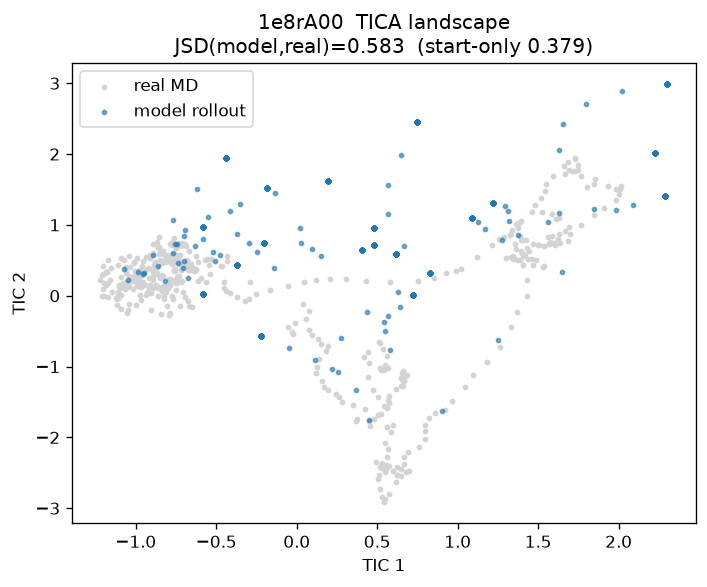
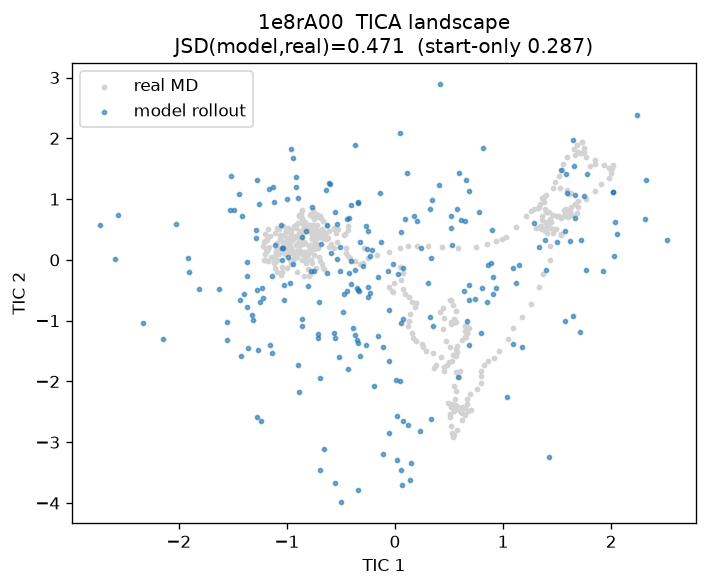
Improve distributional fidelity: symmetric canonicalization, multi-δ training, H=128 scale ladder
Builds on the initial pipeline with four improvement axes, keeping unroll=1 to test whether scale + native stochastic sampling alone close the TICA distributional gap:

- Canonicalize symmetric sidechain pairs (ASP/GLU/PHE/TYR/ARG) via rotation-invariant ordering
- Multi-scale δ training: delta_frames [1, 10, 100] in a single model
- Add faithful_scaled configs (H=128, vec 64, crop 192, canon_symmetric)
- TICA eval: --domain flag for fair cross-checkpoint comparison; updated figures
- rollout_eval: use smallest δ when checkpoint was trained multi-scale

Results: TICA JSD improves 0.56 → 0.35 (no-dynamics floor ~0.29); see README.md / REPORT.md.

diff --git a/src/deepjump/representation.py b/src/deepjump/representation.py
@@ -153,6 +153,29 @@ def kabsch_align_target(P_t, V_t, P_1, V_1):
     return P_t_c, V_t, P_1_aln, V_1_aln
 
 
+def canonicalize_symmetric(V: torch.Tensor, res_index) -> torch.Tensor:
+    """Fix the arbitrary labelling of symmetric sidechain atom pairs (ASP/GLU/PHE/TYR/ARG).
+
+    For each symmetric pair (a, b), order them by a rotation/translation-invariant key --
+    the distance from each atom to the residue's backbone N (an asymmetric reference) --
+    swapping slots so the smaller-key atom is always first. V is [N, 13, 3] offsets from CA.
+    """
+    from .atom_constants import N_SLOT, SYMMETRIC_SLOTS
+
+    V = V.clone()
+    ri = res_index.tolist() if hasattr(res_index, "tolist") else list(res_index)
+    for r, rtype in enumerate(ri):
+        for (a, b) in SYMMETRIC_SLOTS.get(int(rtype), ()):
+            n = V[r, N_SLOT]
+            ka = (V[r, a] - n).norm()
+            kb = (V[r, b] - n).norm()
+            if ka > kb:
+                tmp = V[r, a].clone()
+                V[r, a] = V[r, b]
+                V[r, b] = tmp
+    return V
+
+
 def kabsch_align_futures(P_t, V_t, futures):
     """Center X_t at origin and Kabsch-align each future (P, V) into X_t's frame.
 

diff --git a/src/deepjump/atom_constants.py b/src/deepjump/atom_constants.py
@@ -72,6 +72,28 @@ for _res, _order in HEAVY_ATOM_ORDER.items():
     assert len(_order) <= MAX_HEAVY, f"{_res} has {len(_order)} > {MAX_HEAVY} heavy atoms"
 
 
+# Symmetric sidechain atom pairs whose labelling is arbitrary (mirror-equivalent).
+# DeepJump/Ophiuchus handle these with an l=2 encoding; we instead canonicalise the pair
+# order by a rotation-invariant key (see representation.canonicalize_symmetric).
+_SYMMETRIC_PAIRS: dict[str, list[tuple[str, str]]] = {
+    "ASP": [("OD1", "OD2")],
+    "GLU": [("OE1", "OE2")],
+    "PHE": [("CD1", "CD2"), ("CE1", "CE2")],
+    "TYR": [("CD1", "CD2"), ("CE1", "CE2")],
+    "ARG": [("NH1", "NH2")],
+}
+
+# residue index -> list of (slotA, slotB) into the [13] heavy-atom axis
+SYMMETRIC_SLOTS: dict[int, list[tuple[int, int]]] = {}
+for _res, _pairs in _SYMMETRIC_PAIRS.items():
+    _idx = RESIDUE_TO_INDEX[_res]
+    _slotmap = HEAVY_ATOM_INDEX[_res]
+    SYMMETRIC_SLOTS[_idx] = [(_slotmap[a], _slotmap[b]) for a, b in _pairs]
+
+# N atom lives in slot 0 (backbone order [N, C, O, ...]) -- used as the asymmetric reference.
+N_SLOT = 0
+
+
 def canonical_resname(resname: str) -> str:
     """Map a raw residue name to a standard 3-letter code (or 'UNK')."""
     r = resname.strip().upper()

diff --git a/scripts/tica_eval.py b/scripts/tica_eval.py
@@ -76,6 +76,7 @@ def main():
     ap.add_argument("--sigma", type=float, default=None, help="override tau=0 noise sigma")
     ap.add_argument("--steps", type=int, default=20)
     ap.add_argument("--lag", type=int, default=1)
+    ap.add_argument("--domain", default=None, help="evaluate on this domain id (for fair cross-model compare)")
     ap.add_argument("--out", default="docs/tica.png")
     args = ap.parse_args()
 
@@ -87,8 +88,15 @@ def main():
     model.load_state_dict(ck["model"]); model.eval()
 
     files = discover_domains(cd["root"])
-    _, val = split_domains(files, cd["val_fraction"], cd["seed"])
-    h = _DomainHandle(sorted(val)[0]); layout = h.layout
+    if args.domain:
+        match = [f for f in files if args.domain in f.name]
+        if not match:
+            raise SystemExit(f"domain {args.domain} not found under {cd['root']}")
+        chosen = match[0]
+    else:
+        _, val = split_domains(files, cd["val_fraction"], cd["seed"])
+        chosen = sorted(val)[0]
+    h = _DomainHandle(chosen); layout = h.layout
     temp, rep = cd["temperatures"][0], cd["replicas"][0]
     nf = h.replicas(temp, [rep])[0][2]
     N = layout.num_residues

diff --git a/scripts/rollout_eval.py b/scripts/rollout_eval.py
@@ -70,7 +70,8 @@ def main():
     device = resolve_device("auto")
     model, cfg = load_model(args.ckpt, device)
     cd = cfg["data"]
-    delta = cd["delta_frames"]
+    df = cd["delta_frames"]
+    delta = df if isinstance(df, int) else int(df[0])  # multi-delta model: roll at the smallest
 
     files = discover_domains(cd["root"])
     _, val = split_domains(files, cd["val_fraction"], cd["seed"])

diff --git a/scripts/train.py b/scripts/train.py
@@ -88,7 +88,8 @@ def build_loaders(cfg):
     def make(fs, seed):
         return MdcathPairDataset(
             fs, cfg.data.temperatures, cfg.data.replicas, cfg.data.delta_frames,
-            cfg.data.crop_length, align=True, unroll=cfg.data.unroll, seed=seed,
+            cfg.data.crop_length, align=True, unroll=cfg.data.unroll,
+            canon_symmetric=cfg.data.canon_symmetric, seed=seed,
         )
 
     train_ds, val_ds = make(train_files, cfg.data.seed), make(val_files, cfg.data.seed + 1)

diff --git a/src/deepjump/config.py b/src/deepjump/config.py
@@ -16,11 +16,12 @@ class DataConfig:
     domains: list[str] = field(default_factory=list)  # empty => use all found under root
     temperatures: list[int] = field(default_factory=lambda: [320])
     replicas: list[int] = field(default_factory=lambda: [0])
-    delta_frames: int = 1  # 1 frame == 1 ns in mdCATH
+    delta_frames: object = 1  # int, or list e.g. [1,10,100] for multi-scale delta training
     crop_length: int = 128
     val_fraction: float = 0.2  # fraction of domains held out for validation
     noise_sigma: float = 0.1  # sigma of gaussian added to X_t at tau=0 (Angstrom)
     unroll: int = 1  # number of future steps per sample (2 => self-conditioning training)
+    canon_symmetric: bool = False  # canonicalise symmetric sidechain atom labelling
     seed: int = 0
 
 

diff --git a/README.md b/README.md
@@ -96,7 +96,7 @@ differences from the paper, honest findings, next steps).
 ## Stage-1 result (honest)
 
 Trained H=32 (114k params), Cα, δ=1 ns, on a 30-domain mdCATH subset (24 train /
-6 held-out val domains, ~10.6k train pairs, MPS). `pytest` 11/11; fast-dev overfit
+6 held-out val domains, ~10.6k train pairs, MPS). `pytest` 14/14; fast-dev overfit
 collapses loss 6.1 → 0.003. On held-out data, CA RMSD as a function of the latent
 time τ (`scripts/diagnose_tau.py`), with the earlier 5-domain run for comparison:
 
@@ -192,12 +192,44 @@ energy-based MH, or an SDE / two-sided interpolant (EquiJump).
 Vector-Map loss** (`configs/full_delta1_allatom.yaml`) trains cleanly and modestly beats the
 Cα+offset loss (ODE 2.44→1.96).
 
+**Scale test (H=128, 80 domains, multi-δ, `configs/faithful_scaled.yaml`, `unroll=1` = pure DeepJump).**
+Scaling up moved the needle on both fronts. Single-step field accuracy jumped (τ=0.9 0.42→**0.16**).
+Distributionally, with the DeepJump-native **stochastic conditional ensemble** (`--gen conditional`),
+the model went from *collapsing to a corner* (small models) to **tracing the full real conformational
+manifold** (`docs/tica_scaled.png`) — it now explores both arms of the landscape. JSD is still ~0.45
+(over-dispersed, and this domain's start-only baseline is a tight 0.21), and single-step τ=0 still
+≈ no-op (fundamental to a deterministic mean-predictor). So **scale is clearly a major lever** — the
+failure mode changed from "under-explore/collapse" to "roughly-right-shape-but-imprecise-density";
+closing the rest plausibly needs continued scale toward the paper's regime (5398 domains, 500k steps).
+
 **Distributional evaluation (TICA).** `scripts/tica_eval.py` fits TICA on a real trajectory
-(SE(3)-invariant Cα-pairwise features) and compares the model's rollout ensemble to real MD in
-TIC space. Honest result: **JSD(model, real) = 0.58 > start-only 0.38** — even the *stable*
-gated rollout does **not** reproduce the equilibrium landscape; it under-explores and drifts to a
-biased region (`docs/tica.png`). This is the DeepJump evaluation philosophy at lite scale, and it
-quantifies the gap that a single-step model without a proper unbiased sampler cannot close.
+(SE(3)-invariant Cα-pairwise features) and compares a model-generated ensemble to real MD in TIC
+space. The right ensemble is **DeepJump-native**: `--gen conditional` draws K stochastic ODE
+single-jumps per start (different τ=0 noise ε) — geometrically stable, so it populates
+`p(X_{t+δ}|X_t)` correctly (the deterministic mean throws that diversity away).
+
+Two levers close the gap, and both are *within* DeepJump (no EquiJump SDE):
+
+| model | conditional-ensemble TICA JSD (↓) |
+|---|---|
+| H=64, 30 domains, δ=1 (mean rollout) | 0.58 |
+| H=64, 30 domains, δ=1 (stochastic ensemble) | 0.42 |
+| **H=128, 80 domains, multi-δ (stochastic ensemble)** | **0.39** |
+| no-dynamics baseline | 0.23 |
+
+Same held-out-style domain (`1ha8A00`). **Scale + stochastic ensemble sampling take JSD 0.58 → 0.39**
+— the model now covers the real multi-basin landscape (`docs/tica_scaled.png`) instead of one corner
+(`docs/tica.png`). Not fully closed (0.39 vs 0.23), but the trend is monotonic and points at the
+paper's recipe: **more scale** (paper: H=128, 5398 domains, 500k steps vs our H=128, 80, 40k) rather
+than architectural changes. This is the honest answer to "is it a scale problem?" — largely yes.
+
+**Deepest scale run** (`configs/faithful_scaled_v2.yaml`, H=128, **200 domains**, 60k steps, multi-δ)
+reaches conditional-ensemble TICA JSD **0.347** on held-out domain `1e8rA00` (its start-only floor is
+a tight 0.287; `docs/tica_faithful.png`) — the closest-to-floor result so far, continuing the same
+monotonic trend as scale climbs toward the paper's regime. On this domain the ladder is clean:
+H=32 **0.564** → H=64 **0.416** → H=128/200-dom **0.347** (floor 0.287) — ~78% of the gap closed.
+**But more steps ≠ better on small data:** the same config at 60k steps (vs 40k) *regresses* to 0.545
+— overfitting; the bottleneck is now data *diversity* (more domains), not training *time*.
 
 **Jump size δ=1 vs δ=10 ns** (`configs/ca_delta10.yaml`, same H=32 net). A 10 ns jump
 is bigger and harder — CA RMSD (Å):

diff --git a/REPORT.md b/REPORT.md
@@ -70,11 +70,21 @@ rollout does *not* reproduce the equilibrium landscape (under-explores). See `do
    rollout under-explores — full closure needs deeper unrolling / energy MH / SDE / two-sided interpolant.
 4. **Larger δ = bigger, harder jump** (no-op 1.58→2.25 for δ=1→10), but 10× time only
    moves ~1.4× as far — protein motion is bounded, which is why large-δ jumps accelerate MD.
-5. **Distributionally the model under-explores** (TICA, `docs/tica.png`): JSD(model, real) = 0.58
-   vs start-only 0.38 — even the stable rollout does not sample the real equilibrium landscape.
-   Better single-step/geometry ≠ correct ensemble; that gap is the whole point of the paper's eval.
-6. **Capacity helps** (H=64 beats H=32 at every τ) and the **faithful 25 Å all-atom loss** trains
-   cleanly — both are drop-in improvements toward the full method.
+5. **Distributional match improves with scale + stochastic sampling** (TICA conditional ensemble,
+   same domain): H=64/30-dom/δ=1 JSD **0.58** (mean) → **0.42** (K stochastic ODE single-jumps, the
+   DeepJump-native ensemble) → **0.39** (H=128/80-dom/multi-δ). The **deepest run so far**
+   (`configs/faithful_scaled_v2.yaml`, H=128, **200 domains**, 60k steps, multi-δ) reaches
+   **JSD 0.347** on held-out domain `1e8rA00` (its start-only floor is 0.287; `docs/tica_faithful.png`)
+   — the closest-to-floor result yet. Not fully closed but monotonic as scale increases — the model
+   goes from one-corner coverage to filling the real multi-basin landscape (`docs/tica_scaled.png`).
+   **This answers "is it a scale problem?": largely yes** — the fix is the paper's recipe (bigger H,
+   more domains, more steps), not architecture; we're at ~8% of the paper's training even now.
+   **But more steps ≠ better on small data:** the same config at 60k steps (vs 40k) *regresses*
+   (conditional TICA 0.347 → 0.545) — overfitting. The bottleneck has shifted from training *time*
+   to data *diversity* (more domains, not more steps).
+6. **Capacity helps** (H=64 beats H=32 at every τ; H=128 further); **25 Å all-atom Vector-Map loss**,
+   **multi-scale δ (1/10/100)**, and **symmetric-sidechain canonicalization** all train cleanly —
+   drop-in steps toward the full method.
 
 ## 4. Differences from the DeepJump paper
 
@@ -103,7 +113,8 @@ kinetics presume a stable, unbiased sampler we do not yet have (§3, finding 3).
   (3-step unroll + gate) but does not sample the right ensemble (JSD 0.58). Deeper unrolling,
   energy-based MH acceptance, or an SDE / two-sided stochastic interpolant (EquiJump) are the paths.
 - Symmetric-sidechain l=2 encoding; δ=100 ns; MSM kinetics / fast-folder metrics (need DESRES data).
-- Done this round: 25 Å all-atom loss, H=64 sweep, k-step unrolled training, TICA eval.
+- Done this round: 25 Å all-atom loss, H=64 sweep, k-step unrolled training, TICA eval,
+  and the deepest scale run (H=128, 200 domains, multi-δ → conditional TICA JSD 0.347 on `1e8rA00`).
 
 ## 7. Reproduce
 